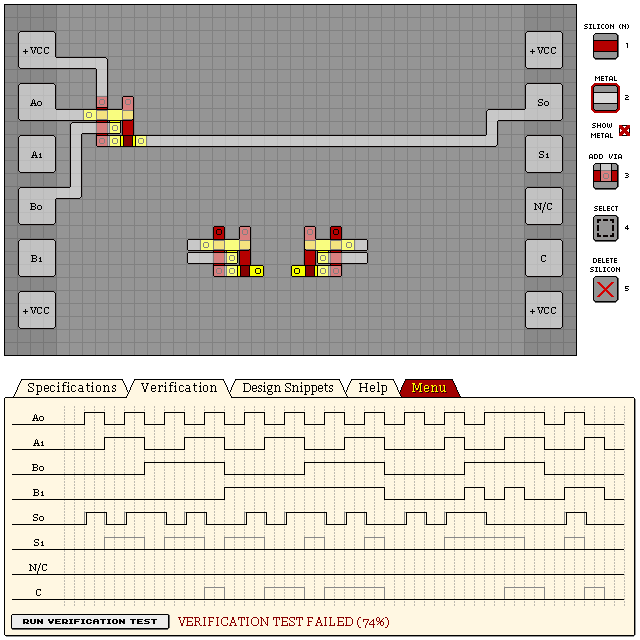
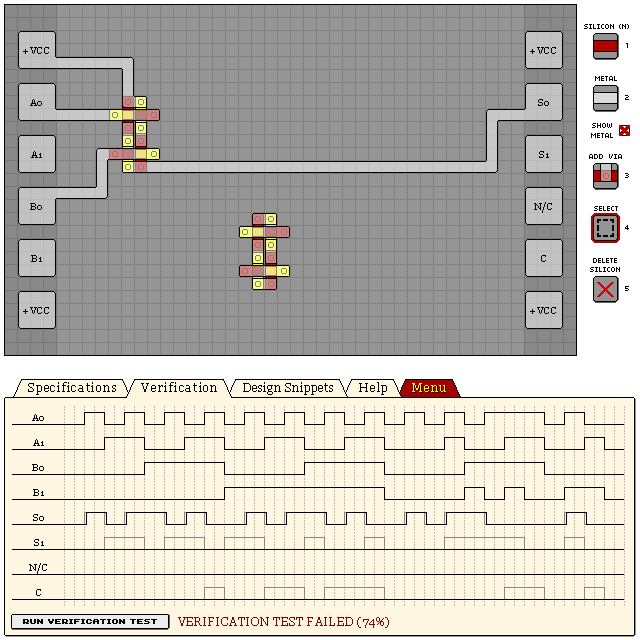
Simplified xor to be de facto

diff --git a/snippets/logic-gates.md b/snippets/logic-gates.md
@@ -162,6 +162,22 @@ Output is high if only an odd number of inputs are high, else output is low. For
 is only high while only one input is high.
 
 ```
[6 lines of base64/hex data omitted]
+3B3WbypEaVlE6pkJ91mJ0gGKSDb5mIvO33/9wZEecvfHLQ==
+```
+
+![Logic XOR Simplfied](./assets/logic-xor.png)
+
+### Compact Design
+
+Smaller design, but can produce spikes in certain situations.
+
+```
[3 lines of base64/hex data omitted]
@@ -172,21 +188,7 @@ Pe4sTfjd395GrngHvMn+GtmQQH+5xz0hja37pnCkSa1Sv+K0KOzf//wUabWycExF
 yl9S37tKRkX6Wa78/84VHOkC2inHOw==
 ```
 
-![Logic XOR](./assets/logic-xor.png)
-
-### Simplified Design
-
-```
[6 lines of base64/hex data omitted]
-3B3WbypEaVlE6pkJ91mJ0gGKSDb5mIvO33/9wZEecvfHLQ==
-```
-
-![Logic XOR Simplfied](./assets/logic-xor-simplified.png)
+![Logic XOR](./assets/logic-xor-compact.png)
 
 ## XNOR Gate
 
